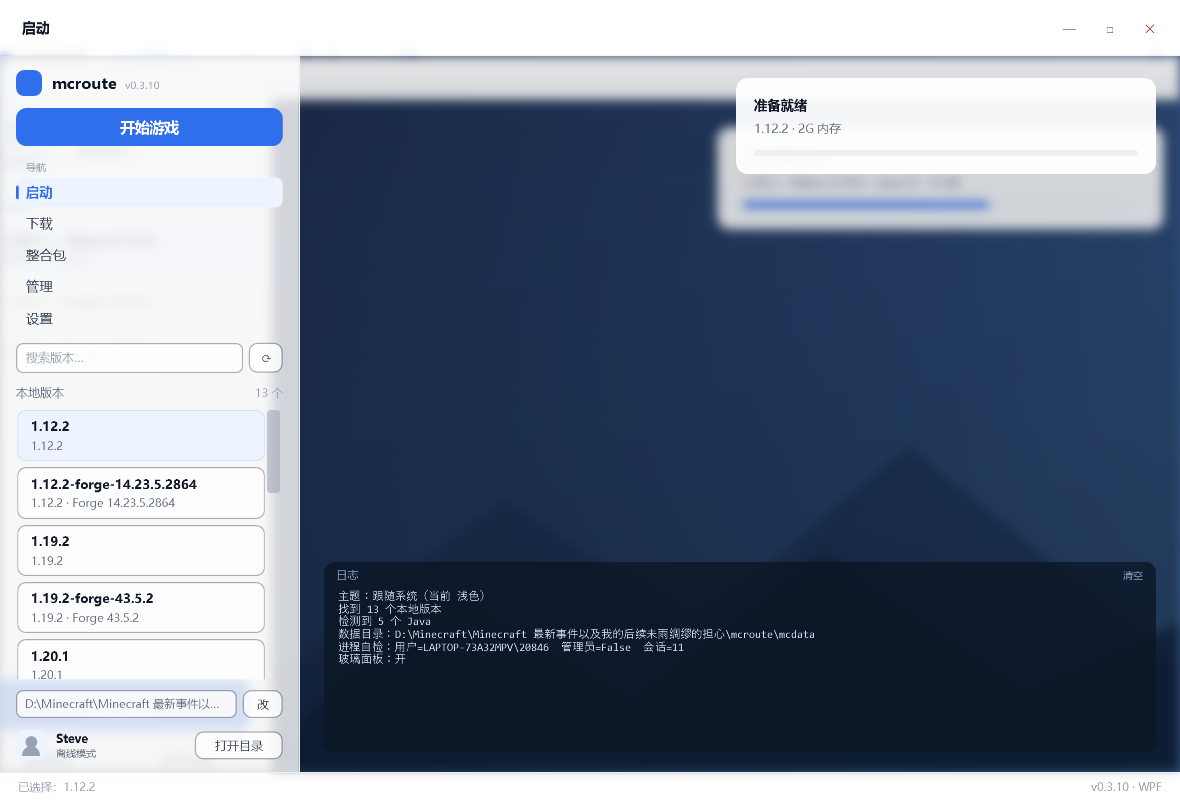
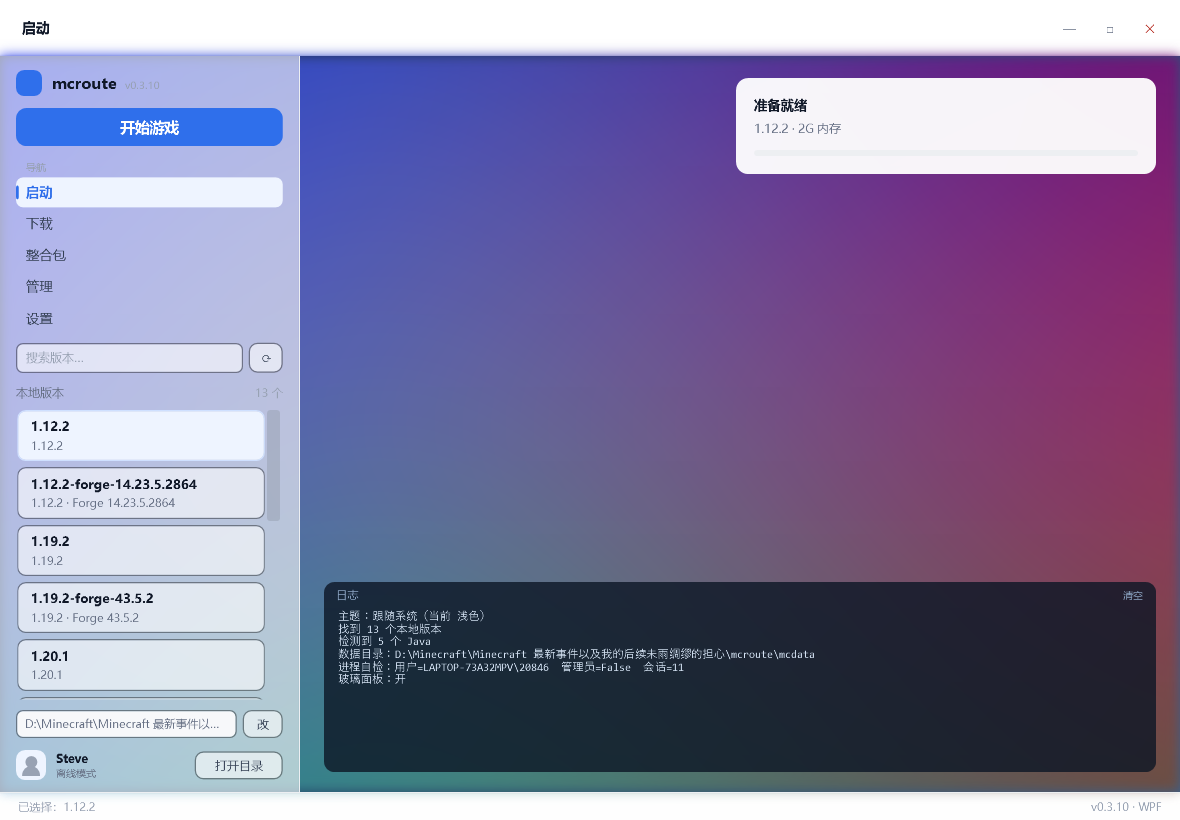
fix(wpf): thread-safe AppendLog; glass now applies to all pages (hero was hidden on nav); translucent inputs; 60% alpha; 0.3.11

diff --git a/csharp-wpf/MainWindow.xaml.cs b/csharp-wpf/MainWindow.xaml.cs
@@ -247,13 +247,12 @@ namespace Mcroute.Wpf
             PagePacks.Visibility = Visibility.Collapsed;
             PageManage.Visibility = Visibility.Collapsed;
             PageSettings.Visibility = Visibility.Collapsed;
-            HeroLayer.Visibility = Visibility.Collapsed;
 
             var rb = sender as RadioButton;
             string name = rb == null ? "启动" : (rb.Content as string ?? "启动");
             switch (name)
             {
-                case "启动": PageLaunch.Visibility = Visibility.Visible; HeroLayer.Visibility = Visibility.Visible; break;
+                case "启动": PageLaunch.Visibility = Visibility.Visible; break;
                 case "下载": PageDownload.Visibility = Visibility.Visible; break;
                 case "整合包": PagePacks.Visibility = Visibility.Visible; break;
                 case "管理": PageManage.Visibility = Visibility.Visible; RefreshManageList(); break;
@@ -797,6 +796,7 @@ namespace Mcroute.Wpf
                 {
                     if (res["SurfaceGlass"] != null) res["Surface"] = res["SurfaceGlass"];
                     if (res["BorderGlass"] != null) res["Border"] = res["BorderGlass"];
+                    if (res["InputBgGlass"] != null) res["InputBg"] = res["InputBgGlass"];
                     if (Sidebar != null) Sidebar.Background = res["SurfaceGlass"] as Brush;
                     if (TopBar != null) TopBar.Background = System.Windows.Media.Brushes.Transparent;
                     PageDownload.Background = System.Windows.Media.Brushes.Transparent;
@@ -1176,6 +1176,12 @@ namespace Mcroute.Wpf
         private void AppendLog(string text)
         {
             if (LogBox == null) return;
+            // 后台线程（下载/测速/安装）也会打日志，必须切回 UI 线程
+            if (!Dispatcher.CheckAccess())
+            {
+                Dispatcher.BeginInvoke(new Action(() => AppendLog(text)));
+                return;
+            }
             lock (_logLock)
             {
                 LogBox.AppendText(text + Environment.NewLine);

diff --git a/csharp-wpf/Theme.cs b/csharp-wpf/Theme.cs
@@ -23,21 +23,21 @@ namespace Mcroute
         {
             "Bg", "Surface", "Border", "Hairline", "Primary", "PrimaryDim", "PrimaryEdge",
             "Text", "TextSub", "TextMuted", "TextFaint", "CardOverlay", "InputBg", "ScrollTrack", "Hover",
-            "SurfaceGlass", "BorderGlass",
+            "SurfaceGlass", "BorderGlass", "InputBgGlass",
         };
 
         private static readonly string[] LightColors =
         {
             "#F7F8FA", "#FFFFFF", "#E4E7EC", "#EDEFF2", "#2F6FEB", "#EEF4FF", "#CFE0FF",
             "#101828", "#344054", "#667085", "#98A2B3", "#F2FFFFFF", "#FAFBFC", "#EDEFF2", "#FAFBFE",
-            "#CCFFFFFF", "#4D000000",
+            "#99FFFFFF", "#66000000", "#B3FFFFFF",
         };
 
         private static readonly string[] DarkColors =
         {
             "#10141A", "#171C24", "#28303C", "#222A35", "#4C8DFF", "#1E2C42", "#3A5C8C",
             "#E9EEF6", "#B7C2D0", "#8B97A8", "#6D7889", "#E6171C24", "#1D232C", "#2A3340", "#1F2733",
-            "#C0171C24", "#33FFFFFF",
+            "#99171C24", "#4DFFFFFF", "#B31D232C",
         };
 
         /// <summary>应用主题：mode = "light" | "dark" | "auto"。</summary>
